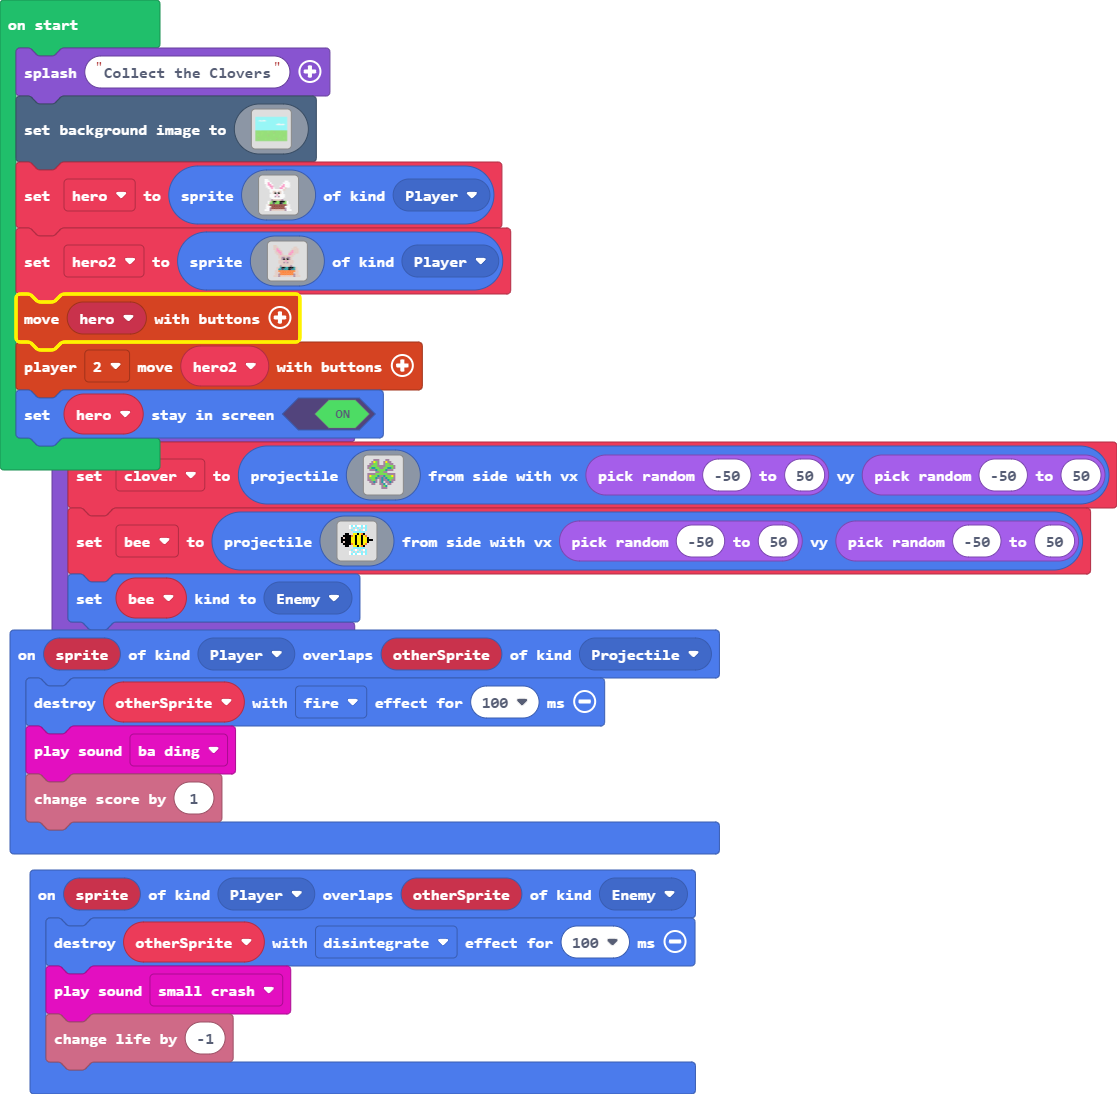
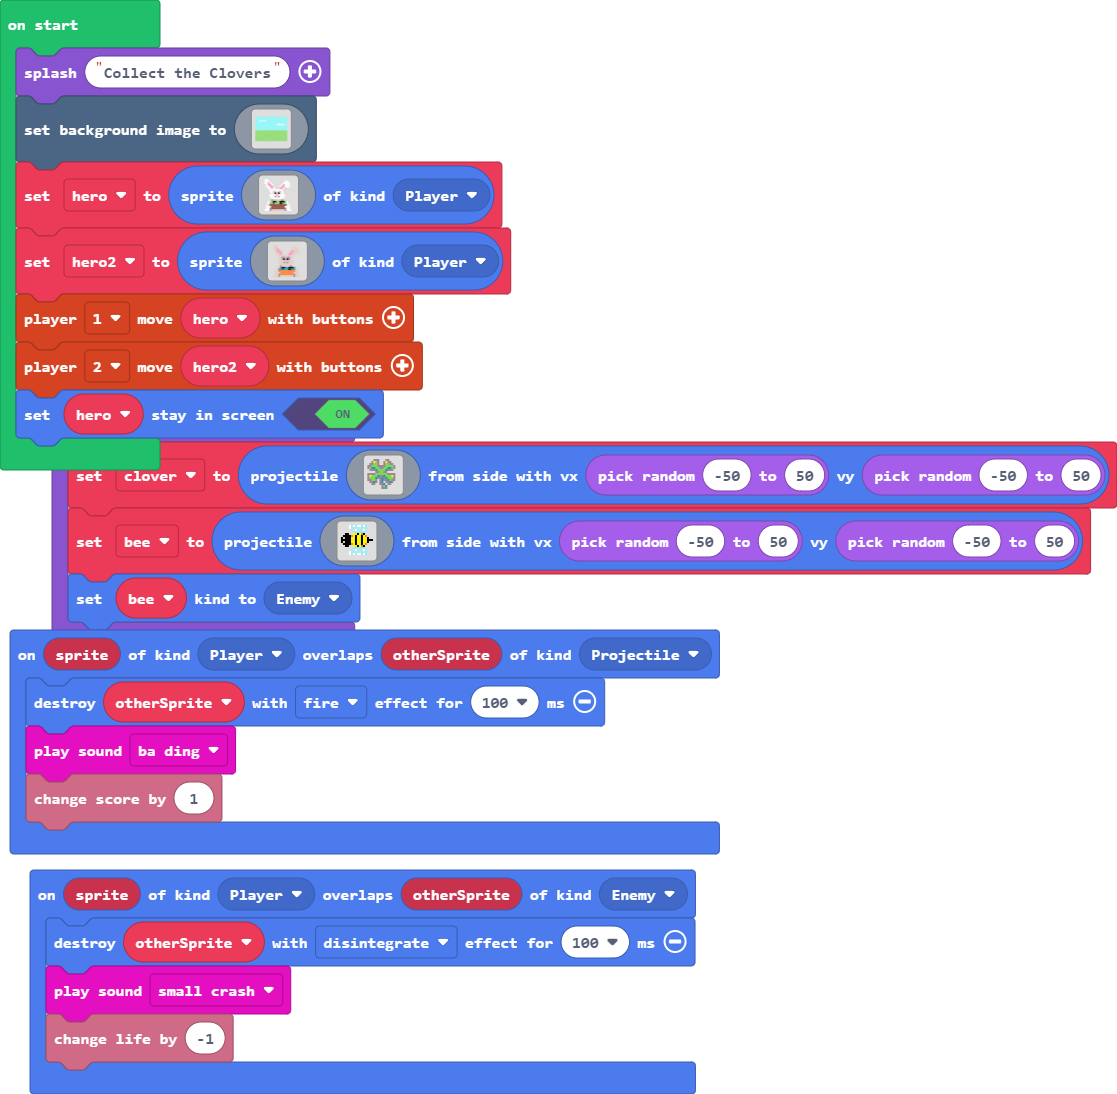
changed player 1 controls slightly

Changed region(s): [[0.0, 0.2486, 0.3957, 0.3419]]

diff --git a/main.ts b/main.ts
@@ -34,7 +34,7 @@ let hero2 = sprites.create(img`
     .ddb44444444bdd.
     dddbddddddddbddd
     `, SpriteKind.Player)
-controller.moveSprite(hero)
+controller.player1.moveSprite(hero)
 controller.player2.moveSprite(hero2)
 hero.setStayInScreen(true)
 game.onUpdateInterval(5000, function () {
